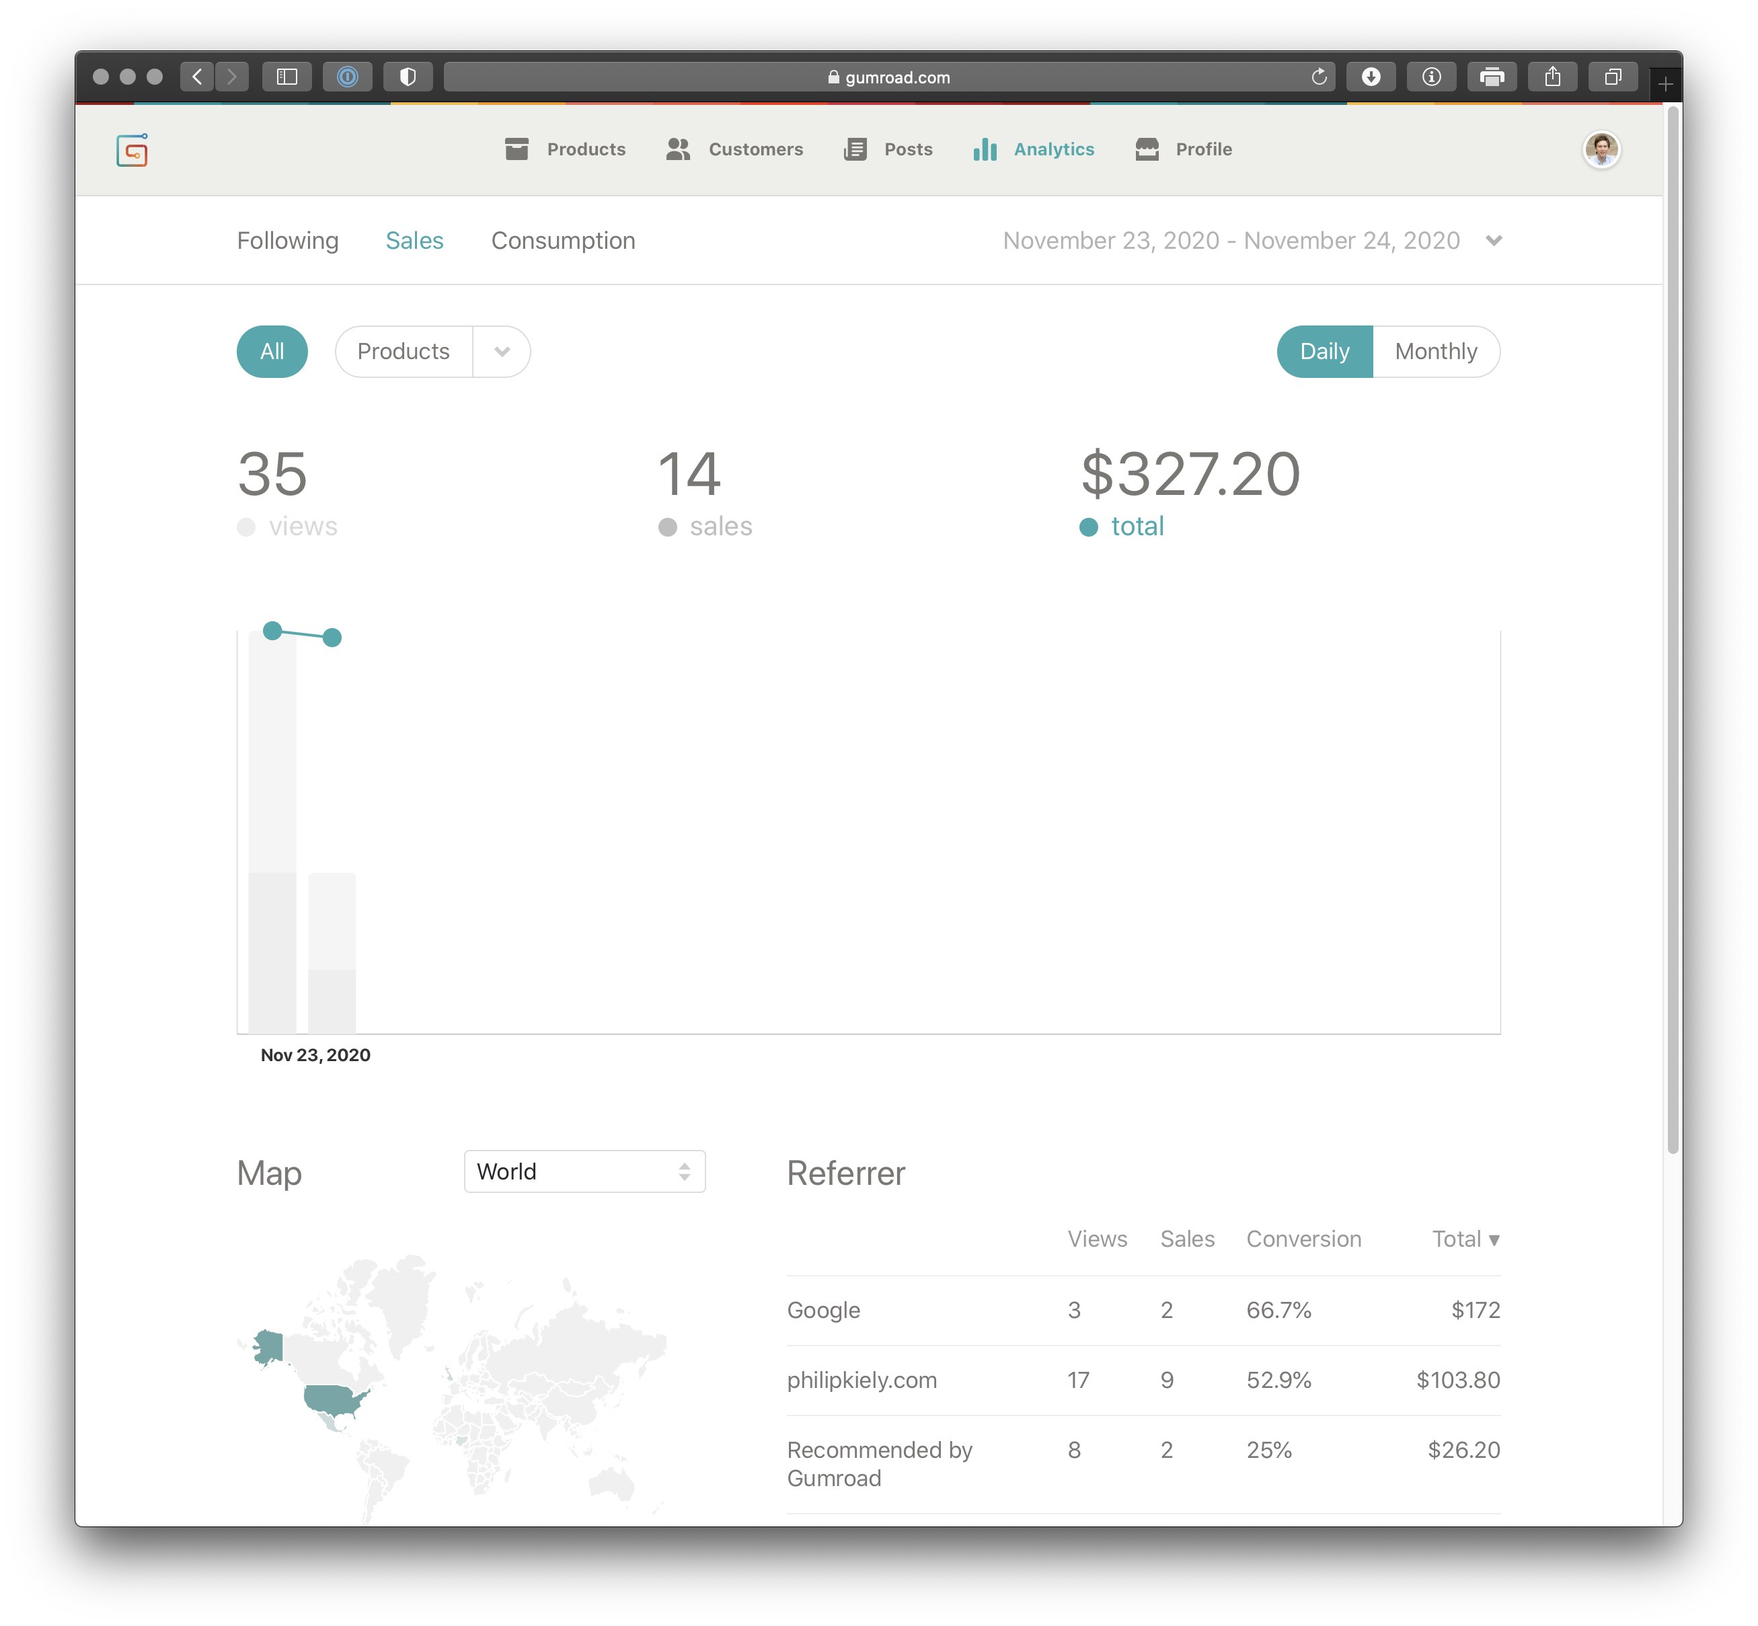
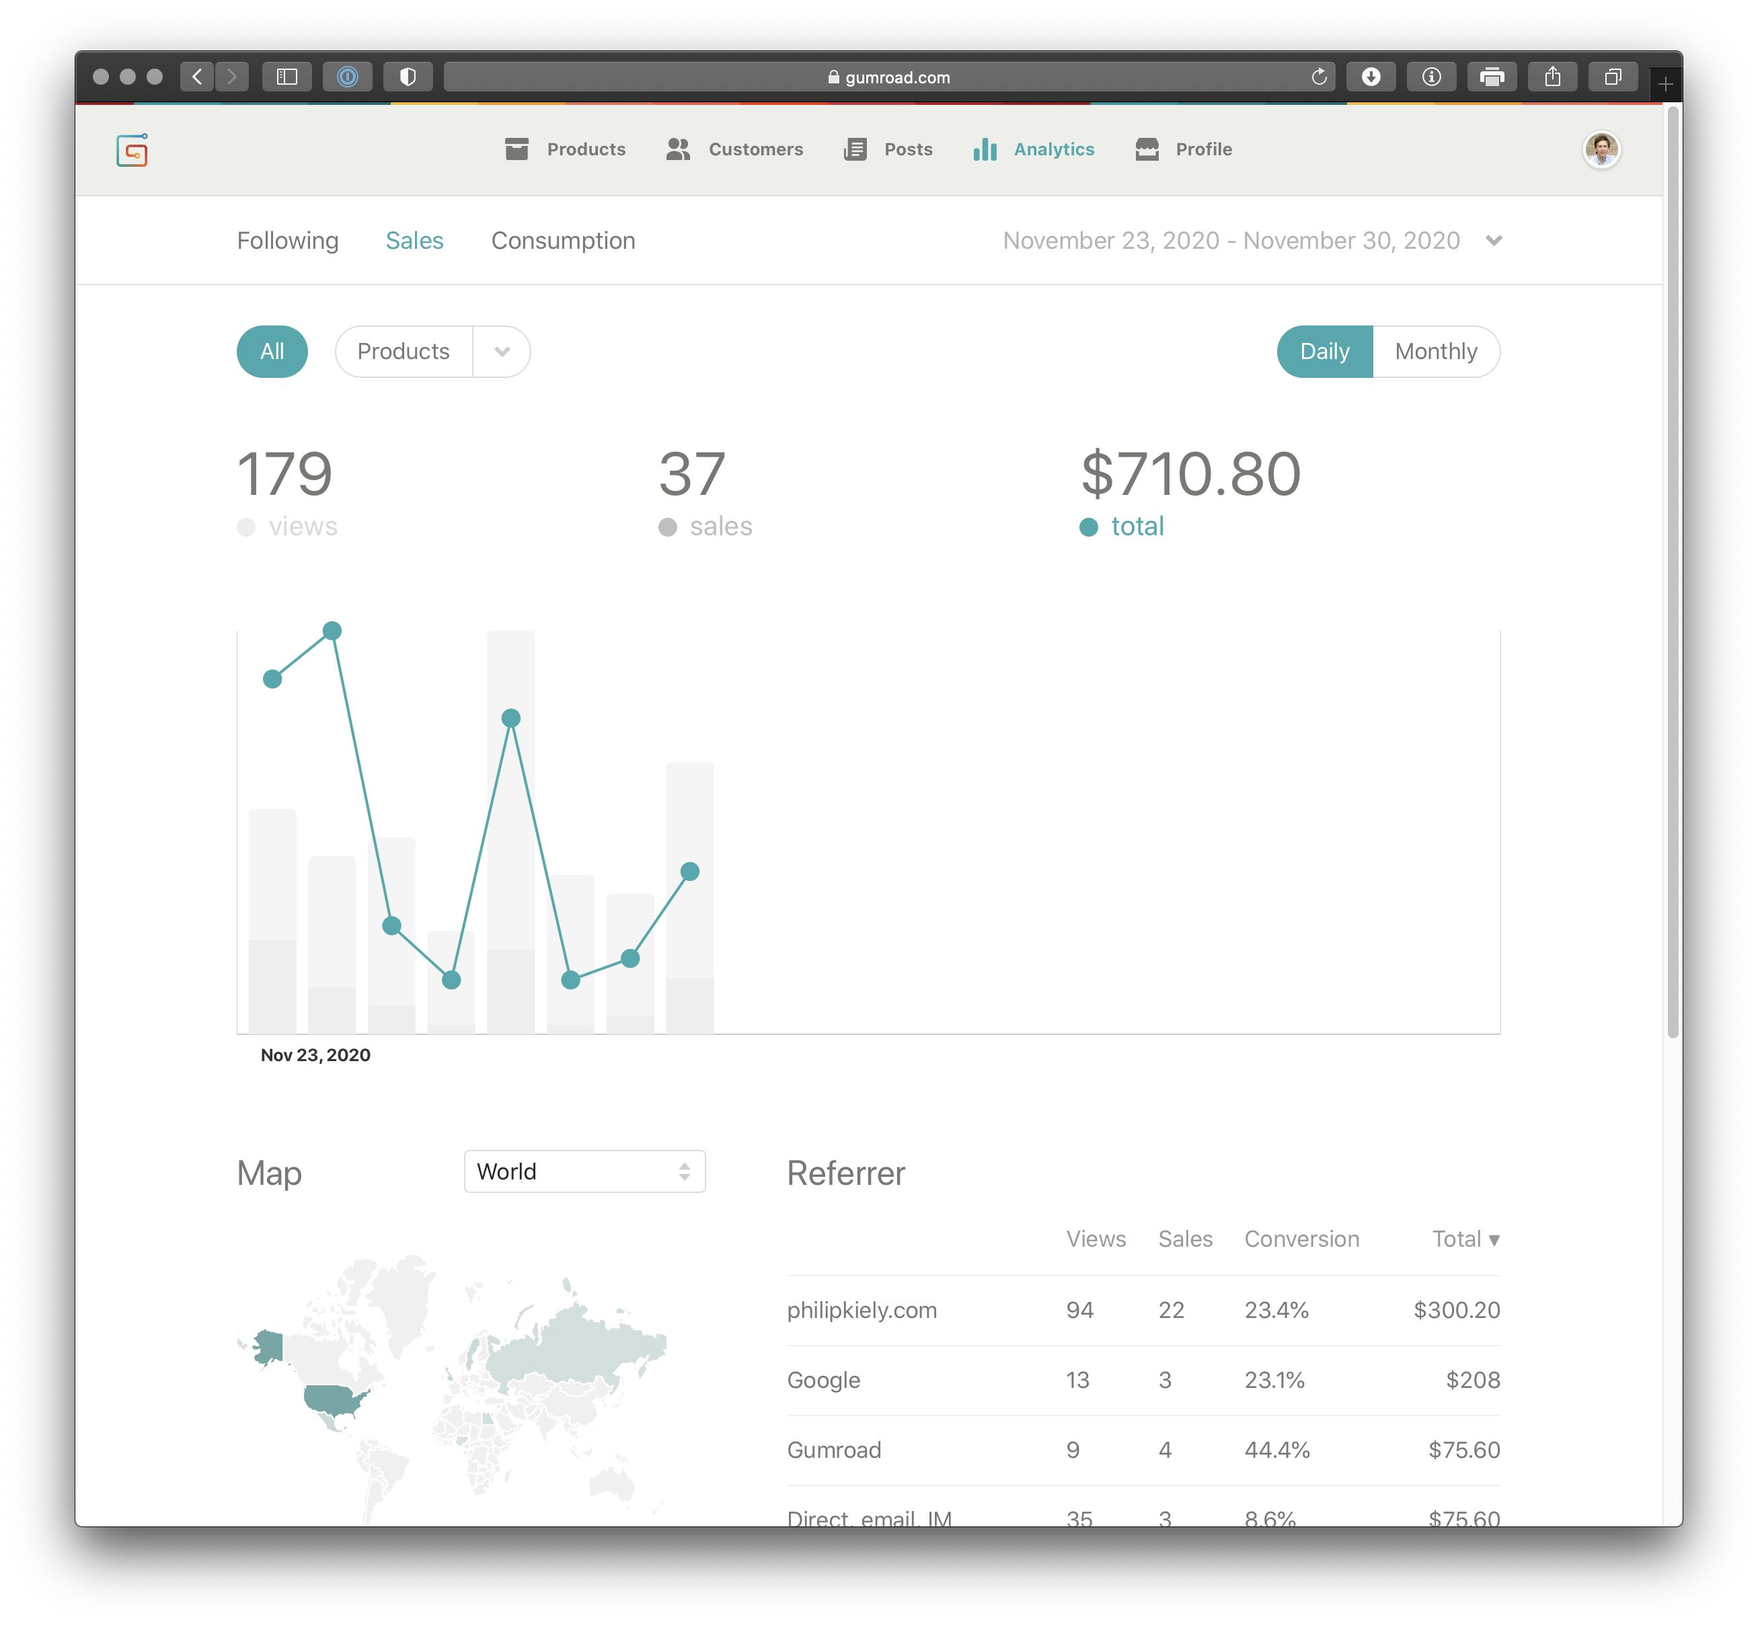
autocommit build

diff --git a/essays/november_sale.html b/essays/november_sale.html
@@ -104,9 +104,9 @@
 <p>Running a sale at the same time gives both creators extra revenue without the reputation&nbsp;hit.</p>
 <p>Coordinating a sale between every creator would be very difficult. Assurance models have the idea of focal points, so everyone who knows the payoffs and participants could come up with the same focal point without communicating. Black Friday is, as I stated at the beginning, a neutron star of a focal point, making it easy for creators everywhere to run a sale at the same&nbsp;time.</p>
 <h3>Model 3:&nbsp;Anecdote!</h3>
-<p>I started running my Obligatory Late November Sale less than 48 hours ago at the time of writing. After a tweet announcing the discounts, yesterday I made enough to fill the fridge and pantry at Trader Joe&#8217;s, today I made enough to buy some secondhand furniture for my new apartment. Fortunately, I&#8217;m not in the position of relying on this income to do those things, but even still paying for material expenses with information product money feels <em>really</em>&nbsp;good.</p>
+<p>I ran my Obligatory Late November Sale from Monday the 23rd through the end of the month. After a tweet announcing the discounts, Monday I made enough to fill the fridge and pantry at Trader Joe&#8217;s, Tuesday I made enough to buy some secondhand furniture for my new apartment. Fortunately, I&#8217;m not in the position of relying on this income to do those things, but even still paying for material expenses with information product money feels <em>really</em> good. All told, I made over 700 dollars running the sale, which is much more than I would have earned&nbsp;ordinarily. </p>
 <p><img alt="Gumroad Analytics Screenshot" src="/assets/img/olns_ss.jpg" /></p>
-<p>Of course, I have to let you know that my book <a href="/wfsd">Writing for Software Developers is 30% off</a> until the end of the month. The discount should be applied automatically, if not, use the code &#8220;olns&#8221; (obligatory late november sale). Also, <a href="/cefip">Cold Email for Interesting People</a> is still pay-what-you-want, but pay 30% less I&nbsp;guess?</p>
+<p>The sale is over, but I&#8217;m already looking forward to next year&#8217;s. By then, I should have more products and a much larger audience and be able to do more interesting and lucrative&nbsp;deals. </p>
 		</div>
 		<hr/>
 		<h3 class="text-center">&#9997;</h3>
@@ -146,7 +146,7 @@
  </div>
  <footer class="py-5 bg-dark main-footer">
    <div class="container">
-     <p class="text-center white-text">philipkiely.com V3.2.<!--PATCH-->46<!--PATCH--> | Proudly Handcrafted Since 2017 | <a href="/old/V2/index.html">V2</a> | <a href="/old/V1/index.html">V1</a> | <a href="/old/V0/index.html">V0</a> | <a href="/sitemap/">sitemap</a></p>
+     <p class="text-center white-text">philipkiely.com V3.2.<!--PATCH-->47<!--PATCH--> | Proudly Handcrafted Since 2017 | <a href="/old/V2/index.html">V2</a> | <a href="/old/V1/index.html">V1</a> | <a href="/old/V0/index.html">V0</a> | <a href="/sitemap/">sitemap</a></p>
      <p class="text-center white-text">Built with <a href="https://github.com/getpelican/pelican">Pelican</a>, <a href="https://jinja.palletsprojects.com/">Jinja</a>, <a href="https://getbootstrap.com">Bootstrap</a>, <a href="http://fontawesome.io">Font Awesome</a>, and <a href="https://fonts.google.com">Google Fonts</a>. Hosted with <a href="https://netlify.com">Netlify</a>.</p>
      <h5 class="text-center">
        <a target="_blank" href="http://youtube.kiely.xyz" class=""><i class="fab fa-youtube red-text"></i></a>

diff --git a/notes/14_day_product.html b/notes/14_day_product.html
@@ -586,7 +586,7 @@ Even though this email failed at its primary objective, I'm including it because
  </div>
  <footer class="py-5 bg-dark main-footer">
    <div class="container">
-     <p class="text-center white-text">philipkiely.com V3.2.<!--PATCH-->46<!--PATCH--> | Proudly Handcrafted Since 2017 | <a href="/old/V2/index.html">V2</a> | <a href="/old/V1/index.html">V1</a> | <a href="/old/V0/index.html">V0</a> | <a href="/sitemap/">sitemap</a></p>
+     <p class="text-center white-text">philipkiely.com V3.2.<!--PATCH-->47<!--PATCH--> | Proudly Handcrafted Since 2017 | <a href="/old/V2/index.html">V2</a> | <a href="/old/V1/index.html">V1</a> | <a href="/old/V0/index.html">V0</a> | <a href="/sitemap/">sitemap</a></p>
      <p class="text-center white-text">Built with <a href="https://github.com/getpelican/pelican">Pelican</a>, <a href="https://jinja.palletsprojects.com/">Jinja</a>, <a href="https://getbootstrap.com">Bootstrap</a>, <a href="http://fontawesome.io">Font Awesome</a>, and <a href="https://fonts.google.com">Google Fonts</a>. Hosted with <a href="https://netlify.com">Netlify</a>.</p>
      <h5 class="text-center">
        <a target="_blank" href="http://youtube.kiely.xyz" class=""><i class="fab fa-youtube red-text"></i></a>

diff --git a/index.html b/index.html
@@ -188,7 +188,7 @@ activate("short")
  </div>
  <footer class="py-5 bg-dark main-footer">
    <div class="container">
-     <p class="text-center white-text">philipkiely.com V3.2.<!--PATCH-->46<!--PATCH--> | Proudly Handcrafted Since 2017 | <a href="/old/V2/index.html">V2</a> | <a href="/old/V1/index.html">V1</a> | <a href="/old/V0/index.html">V0</a> | <a href="/sitemap/">sitemap</a></p>
+     <p class="text-center white-text">philipkiely.com V3.2.<!--PATCH-->47<!--PATCH--> | Proudly Handcrafted Since 2017 | <a href="/old/V2/index.html">V2</a> | <a href="/old/V1/index.html">V1</a> | <a href="/old/V0/index.html">V0</a> | <a href="/sitemap/">sitemap</a></p>
      <p class="text-center white-text">Built with <a href="https://github.com/getpelican/pelican">Pelican</a>, <a href="https://jinja.palletsprojects.com/">Jinja</a>, <a href="https://getbootstrap.com">Bootstrap</a>, <a href="http://fontawesome.io">Font Awesome</a>, and <a href="https://fonts.google.com">Google Fonts</a>. Hosted with <a href="https://netlify.com">Netlify</a>.</p>
      <h5 class="text-center">
        <a target="_blank" href="http://youtube.kiely.xyz" class=""><i class="fab fa-youtube red-text"></i></a>

diff --git a/essays/writing_wfsd.html b/essays/writing_wfsd.html
@@ -255,7 +255,7 @@ Philip Kiely
  </div>
  <footer class="py-5 bg-dark main-footer">
    <div class="container">
-     <p class="text-center white-text">philipkiely.com V3.2.<!--PATCH-->46<!--PATCH--> | Proudly Handcrafted Since 2017 | <a href="/old/V2/index.html">V2</a> | <a href="/old/V1/index.html">V1</a> | <a href="/old/V0/index.html">V0</a> | <a href="/sitemap/">sitemap</a></p>
+     <p class="text-center white-text">philipkiely.com V3.2.<!--PATCH-->47<!--PATCH--> | Proudly Handcrafted Since 2017 | <a href="/old/V2/index.html">V2</a> | <a href="/old/V1/index.html">V1</a> | <a href="/old/V0/index.html">V0</a> | <a href="/sitemap/">sitemap</a></p>
      <p class="text-center white-text">Built with <a href="https://github.com/getpelican/pelican">Pelican</a>, <a href="https://jinja.palletsprojects.com/">Jinja</a>, <a href="https://getbootstrap.com">Bootstrap</a>, <a href="http://fontawesome.io">Font Awesome</a>, and <a href="https://fonts.google.com">Google Fonts</a>. Hosted with <a href="https://netlify.com">Netlify</a>.</p>
      <h5 class="text-center">
        <a target="_blank" href="http://youtube.kiely.xyz" class=""><i class="fab fa-youtube red-text"></i></a>

diff --git a/wfsd/index.html b/wfsd/index.html
@@ -490,7 +490,7 @@ p, button {
  </div>
  <footer class="py-5 bg-dark main-footer">
    <div class="container">
-     <p class="text-center white-text">philipkiely.com V3.2.<!--PATCH-->46<!--PATCH--> | Proudly Handcrafted Since 2017 | <a href="/old/V2/index.html">V2</a> | <a href="/old/V1/index.html">V1</a> | <a href="/old/V0/index.html">V0</a> | <a href="/sitemap/">sitemap</a></p>
+     <p class="text-center white-text">philipkiely.com V3.2.<!--PATCH-->47<!--PATCH--> | Proudly Handcrafted Since 2017 | <a href="/old/V2/index.html">V2</a> | <a href="/old/V1/index.html">V1</a> | <a href="/old/V0/index.html">V0</a> | <a href="/sitemap/">sitemap</a></p>
      <p class="text-center white-text">Built with <a href="https://github.com/getpelican/pelican">Pelican</a>, <a href="https://jinja.palletsprojects.com/">Jinja</a>, <a href="https://getbootstrap.com">Bootstrap</a>, <a href="http://fontawesome.io">Font Awesome</a>, and <a href="https://fonts.google.com">Google Fonts</a>. Hosted with <a href="https://netlify.com">Netlify</a>.</p>
      <h5 class="text-center">
        <a target="_blank" href="http://youtube.kiely.xyz" class=""><i class="fab fa-youtube red-text"></i></a>

diff --git a/cefip/index.html b/cefip/index.html
@@ -243,7 +243,7 @@
  </div>
  <footer class="py-5 bg-dark main-footer">
    <div class="container">
-     <p class="text-center white-text">philipkiely.com V3.2.<!--PATCH-->46<!--PATCH--> | Proudly Handcrafted Since 2017 | <a href="/old/V2/index.html">V2</a> | <a href="/old/V1/index.html">V1</a> | <a href="/old/V0/index.html">V0</a> | <a href="/sitemap/">sitemap</a></p>
+     <p class="text-center white-text">philipkiely.com V3.2.<!--PATCH-->47<!--PATCH--> | Proudly Handcrafted Since 2017 | <a href="/old/V2/index.html">V2</a> | <a href="/old/V1/index.html">V1</a> | <a href="/old/V0/index.html">V0</a> | <a href="/sitemap/">sitemap</a></p>
      <p class="text-center white-text">Built with <a href="https://github.com/getpelican/pelican">Pelican</a>, <a href="https://jinja.palletsprojects.com/">Jinja</a>, <a href="https://getbootstrap.com">Bootstrap</a>, <a href="http://fontawesome.io">Font Awesome</a>, and <a href="https://fonts.google.com">Google Fonts</a>. Hosted with <a href="https://netlify.com">Netlify</a>.</p>
      <h5 class="text-center">
        <a target="_blank" href="http://youtube.kiely.xyz" class=""><i class="fab fa-youtube red-text"></i></a>

diff --git a/company/index.html b/company/index.html
@@ -122,7 +122,7 @@
  </div>
  <footer class="py-5 bg-dark main-footer">
    <div class="container">
-     <p class="text-center white-text">philipkiely.com V3.2.<!--PATCH-->46<!--PATCH--> | Proudly Handcrafted Since 2017 | <a href="/old/V2/index.html">V2</a> | <a href="/old/V1/index.html">V1</a> | <a href="/old/V0/index.html">V0</a> | <a href="/sitemap/">sitemap</a></p>
+     <p class="text-center white-text">philipkiely.com V3.2.<!--PATCH-->47<!--PATCH--> | Proudly Handcrafted Since 2017 | <a href="/old/V2/index.html">V2</a> | <a href="/old/V1/index.html">V1</a> | <a href="/old/V0/index.html">V0</a> | <a href="/sitemap/">sitemap</a></p>
      <p class="text-center white-text">Built with <a href="https://github.com/getpelican/pelican">Pelican</a>, <a href="https://jinja.palletsprojects.com/">Jinja</a>, <a href="https://getbootstrap.com">Bootstrap</a>, <a href="http://fontawesome.io">Font Awesome</a>, and <a href="https://fonts.google.com">Google Fonts</a>. Hosted with <a href="https://netlify.com">Netlify</a>.</p>
      <h5 class="text-center">
        <a target="_blank" href="http://youtube.kiely.xyz" class=""><i class="fab fa-youtube red-text"></i></a>

diff --git a/essays/0260_notes.html b/essays/0260_notes.html
@@ -182,7 +182,7 @@
  </div>
  <footer class="py-5 bg-dark main-footer">
    <div class="container">
-     <p class="text-center white-text">philipkiely.com V3.2.<!--PATCH-->46<!--PATCH--> | Proudly Handcrafted Since 2017 | <a href="/old/V2/index.html">V2</a> | <a href="/old/V1/index.html">V1</a> | <a href="/old/V0/index.html">V0</a> | <a href="/sitemap/">sitemap</a></p>
+     <p class="text-center white-text">philipkiely.com V3.2.<!--PATCH-->47<!--PATCH--> | Proudly Handcrafted Since 2017 | <a href="/old/V2/index.html">V2</a> | <a href="/old/V1/index.html">V1</a> | <a href="/old/V0/index.html">V0</a> | <a href="/sitemap/">sitemap</a></p>
      <p class="text-center white-text">Built with <a href="https://github.com/getpelican/pelican">Pelican</a>, <a href="https://jinja.palletsprojects.com/">Jinja</a>, <a href="https://getbootstrap.com">Bootstrap</a>, <a href="http://fontawesome.io">Font Awesome</a>, and <a href="https://fonts.google.com">Google Fonts</a>. Hosted with <a href="https://netlify.com">Netlify</a>.</p>
      <h5 class="text-center">
        <a target="_blank" href="http://youtube.kiely.xyz" class=""><i class="fab fa-youtube red-text"></i></a>

diff --git a/essays/black-belt-white-belt.html b/essays/black-belt-white-belt.html
@@ -142,7 +142,7 @@
  </div>
  <footer class="py-5 bg-dark main-footer">
    <div class="container">
-     <p class="text-center white-text">philipkiely.com V3.2.<!--PATCH-->46<!--PATCH--> | Proudly Handcrafted Since 2017 | <a href="/old/V2/index.html">V2</a> | <a href="/old/V1/index.html">V1</a> | <a href="/old/V0/index.html">V0</a> | <a href="/sitemap/">sitemap</a></p>
+     <p class="text-center white-text">philipkiely.com V3.2.<!--PATCH-->47<!--PATCH--> | Proudly Handcrafted Since 2017 | <a href="/old/V2/index.html">V2</a> | <a href="/old/V1/index.html">V1</a> | <a href="/old/V0/index.html">V0</a> | <a href="/sitemap/">sitemap</a></p>
      <p class="text-center white-text">Built with <a href="https://github.com/getpelican/pelican">Pelican</a>, <a href="https://jinja.palletsprojects.com/">Jinja</a>, <a href="https://getbootstrap.com">Bootstrap</a>, <a href="http://fontawesome.io">Font Awesome</a>, and <a href="https://fonts.google.com">Google Fonts</a>. Hosted with <a href="https://netlify.com">Netlify</a>.</p>
      <h5 class="text-center">
        <a target="_blank" href="http://youtube.kiely.xyz" class=""><i class="fab fa-youtube red-text"></i></a>

diff --git a/essays/bruce-lee-style.html b/essays/bruce-lee-style.html
@@ -130,7 +130,7 @@
  </div>
  <footer class="py-5 bg-dark main-footer">
    <div class="container">
-     <p class="text-center white-text">philipkiely.com V3.2.<!--PATCH-->46<!--PATCH--> | Proudly Handcrafted Since 2017 | <a href="/old/V2/index.html">V2</a> | <a href="/old/V1/index.html">V1</a> | <a href="/old/V0/index.html">V0</a> | <a href="/sitemap/">sitemap</a></p>
+     <p class="text-center white-text">philipkiely.com V3.2.<!--PATCH-->47<!--PATCH--> | Proudly Handcrafted Since 2017 | <a href="/old/V2/index.html">V2</a> | <a href="/old/V1/index.html">V1</a> | <a href="/old/V0/index.html">V0</a> | <a href="/sitemap/">sitemap</a></p>
      <p class="text-center white-text">Built with <a href="https://github.com/getpelican/pelican">Pelican</a>, <a href="https://jinja.palletsprojects.com/">Jinja</a>, <a href="https://getbootstrap.com">Bootstrap</a>, <a href="http://fontawesome.io">Font Awesome</a>, and <a href="https://fonts.google.com">Google Fonts</a>. Hosted with <a href="https://netlify.com">Netlify</a>.</p>
      <h5 class="text-center">
        <a target="_blank" href="http://youtube.kiely.xyz" class=""><i class="fab fa-youtube red-text"></i></a>

diff --git a/essays/computers-and-poetry.html b/essays/computers-and-poetry.html
@@ -169,7 +169,7 @@
  </div>
  <footer class="py-5 bg-dark main-footer">
    <div class="container">
-     <p class="text-center white-text">philipkiely.com V3.2.<!--PATCH-->46<!--PATCH--> | Proudly Handcrafted Since 2017 | <a href="/old/V2/index.html">V2</a> | <a href="/old/V1/index.html">V1</a> | <a href="/old/V0/index.html">V0</a> | <a href="/sitemap/">sitemap</a></p>
+     <p class="text-center white-text">philipkiely.com V3.2.<!--PATCH-->47<!--PATCH--> | Proudly Handcrafted Since 2017 | <a href="/old/V2/index.html">V2</a> | <a href="/old/V1/index.html">V1</a> | <a href="/old/V0/index.html">V0</a> | <a href="/sitemap/">sitemap</a></p>
      <p class="text-center white-text">Built with <a href="https://github.com/getpelican/pelican">Pelican</a>, <a href="https://jinja.palletsprojects.com/">Jinja</a>, <a href="https://getbootstrap.com">Bootstrap</a>, <a href="http://fontawesome.io">Font Awesome</a>, and <a href="https://fonts.google.com">Google Fonts</a>. Hosted with <a href="https://netlify.com">Netlify</a>.</p>
      <h5 class="text-center">
        <a target="_blank" href="http://youtube.kiely.xyz" class=""><i class="fab fa-youtube red-text"></i></a>

diff --git a/essays/defining_tutorials_and_articles.html b/essays/defining_tutorials_and_articles.html
@@ -144,7 +144,7 @@
  </div>
  <footer class="py-5 bg-dark main-footer">
    <div class="container">
-     <p class="text-center white-text">philipkiely.com V3.2.<!--PATCH-->46<!--PATCH--> | Proudly Handcrafted Since 2017 | <a href="/old/V2/index.html">V2</a> | <a href="/old/V1/index.html">V1</a> | <a href="/old/V0/index.html">V0</a> | <a href="/sitemap/">sitemap</a></p>
+     <p class="text-center white-text">philipkiely.com V3.2.<!--PATCH-->47<!--PATCH--> | Proudly Handcrafted Since 2017 | <a href="/old/V2/index.html">V2</a> | <a href="/old/V1/index.html">V1</a> | <a href="/old/V0/index.html">V0</a> | <a href="/sitemap/">sitemap</a></p>
      <p class="text-center white-text">Built with <a href="https://github.com/getpelican/pelican">Pelican</a>, <a href="https://jinja.palletsprojects.com/">Jinja</a>, <a href="https://getbootstrap.com">Bootstrap</a>, <a href="http://fontawesome.io">Font Awesome</a>, and <a href="https://fonts.google.com">Google Fonts</a>. Hosted with <a href="https://netlify.com">Netlify</a>.</p>
      <h5 class="text-center">
        <a target="_blank" href="http://youtube.kiely.xyz" class=""><i class="fab fa-youtube red-text"></i></a>
